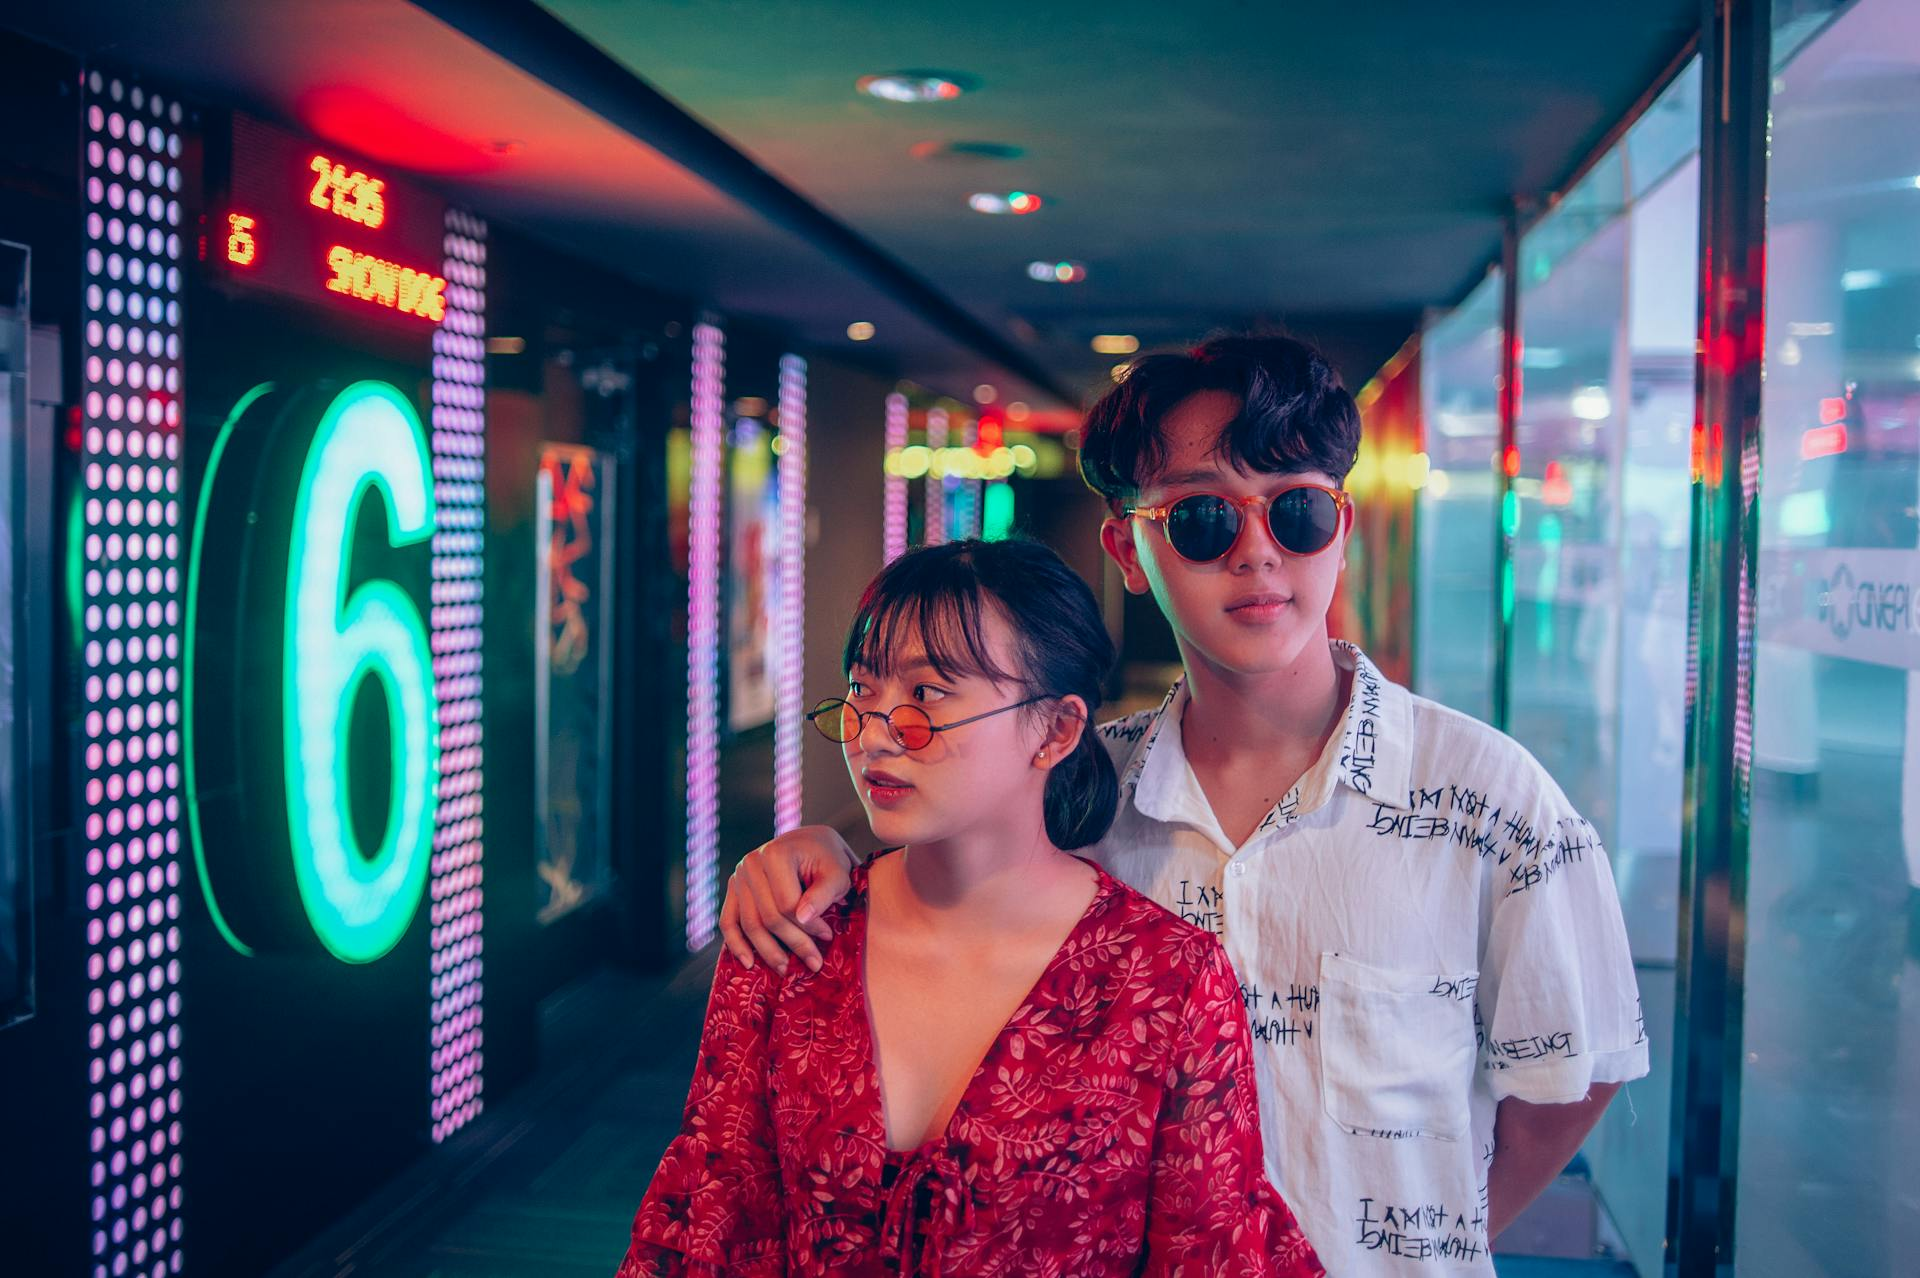
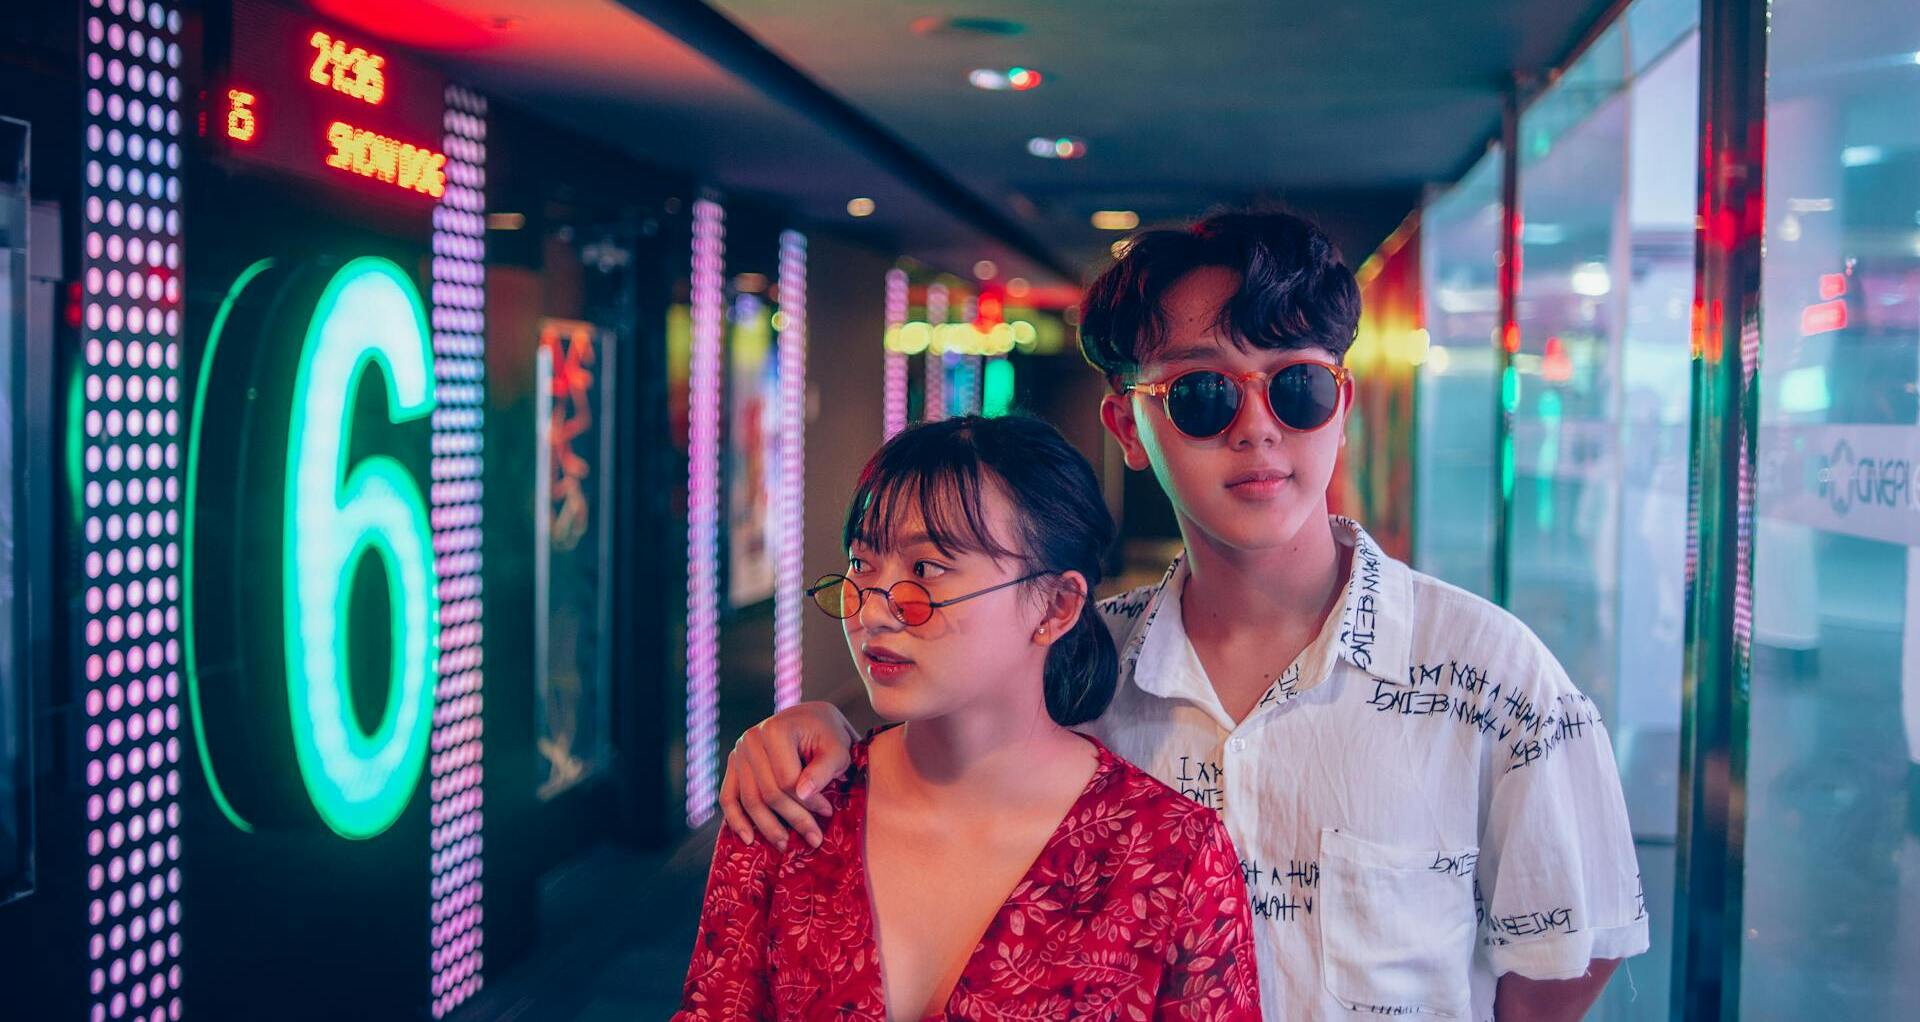
updating images 15042025

diff --git a/templates/main/index.html b/templates/main/index.html
@@ -4,7 +4,7 @@
 
     <!-- Caroussel -->
     <div id="carouselExampleControls" class="carousel slide carousel-fade d-none d-sm-block" data-bs-ride="carousel">
-      <div class="carousel-inner">
+      <div class="carousel-inner" style="width: 100%;height: 40em !important">
 
 
         <div class="carousel-item active" data-bs-interval="4500">
@@ -12,7 +12,11 @@
         </div>
 
         <div class="carousel-item" data-bs-interval="4500">
-          <a href="wwii.html"><img src="{% static 'assets/imagens/carousel_01.jpg' %}" class="d-block h-50 w-100" ></a>
+          <a href="wwii.html"><img src="{% static 'assets/imagens/carousel_01.jpg' %}" class="d-block h-50 w-100"></a>
+          <div class="carousel-caption d-none d-md-block">
+            <a href="dune.html"><h1 class="lobs">Lorem, ipsum dolor.</h1></a>
+            <p class="lobsterFont titulo">Lorem ipsum dolor sit amet, consectetur adipisicing elit.</p>
+          </div>
         </div>
 
         <div class="carousel-item" data-bs-interval="4500">
@@ -119,7 +123,7 @@
         </div>
 
         <div class="card m-3">
-          <a href="{% url 'movie_page' 'wwii' %}"><img src="{% static 'assets/imagens/especialfull.jpg' %}" class="card-img-top" alt="luftwaffe"></a>
+          <a href="{% url 'movie_page' 'wwii' %}"><img src="{% static 'assets/imagens/especialfull.jpg' %}" class="card-img-top" alt="evento_especial" style="width: 100%;height: 32vw;object-fit: cover;"></a>
           <div class="card-body">
             <h5 class="card-title">Especial de Segunda Guerra mundial</h5>
             <p class="card-text">Lorem ipsum dolor sit amet consectetur adipisicing elit. Impedit laudantium, exercitationem est molestiae repellat a ipsum, quam itaque, quidem vel voluptatum sunt cum excepturi tempora incidunt dolorum dicta? Molestiae animi deserunt sed doloribus similique.</p>

diff --git a/static/styles/style.css b/static/styles/style.css
@@ -125,9 +125,3 @@ left: 50%;
 transform: translate(-50%, -50%);
 text-align: center;
 }
-
-.poster {
-    width: 100%;
-    height: 32vw;
-    object-fit: cover;
-}
